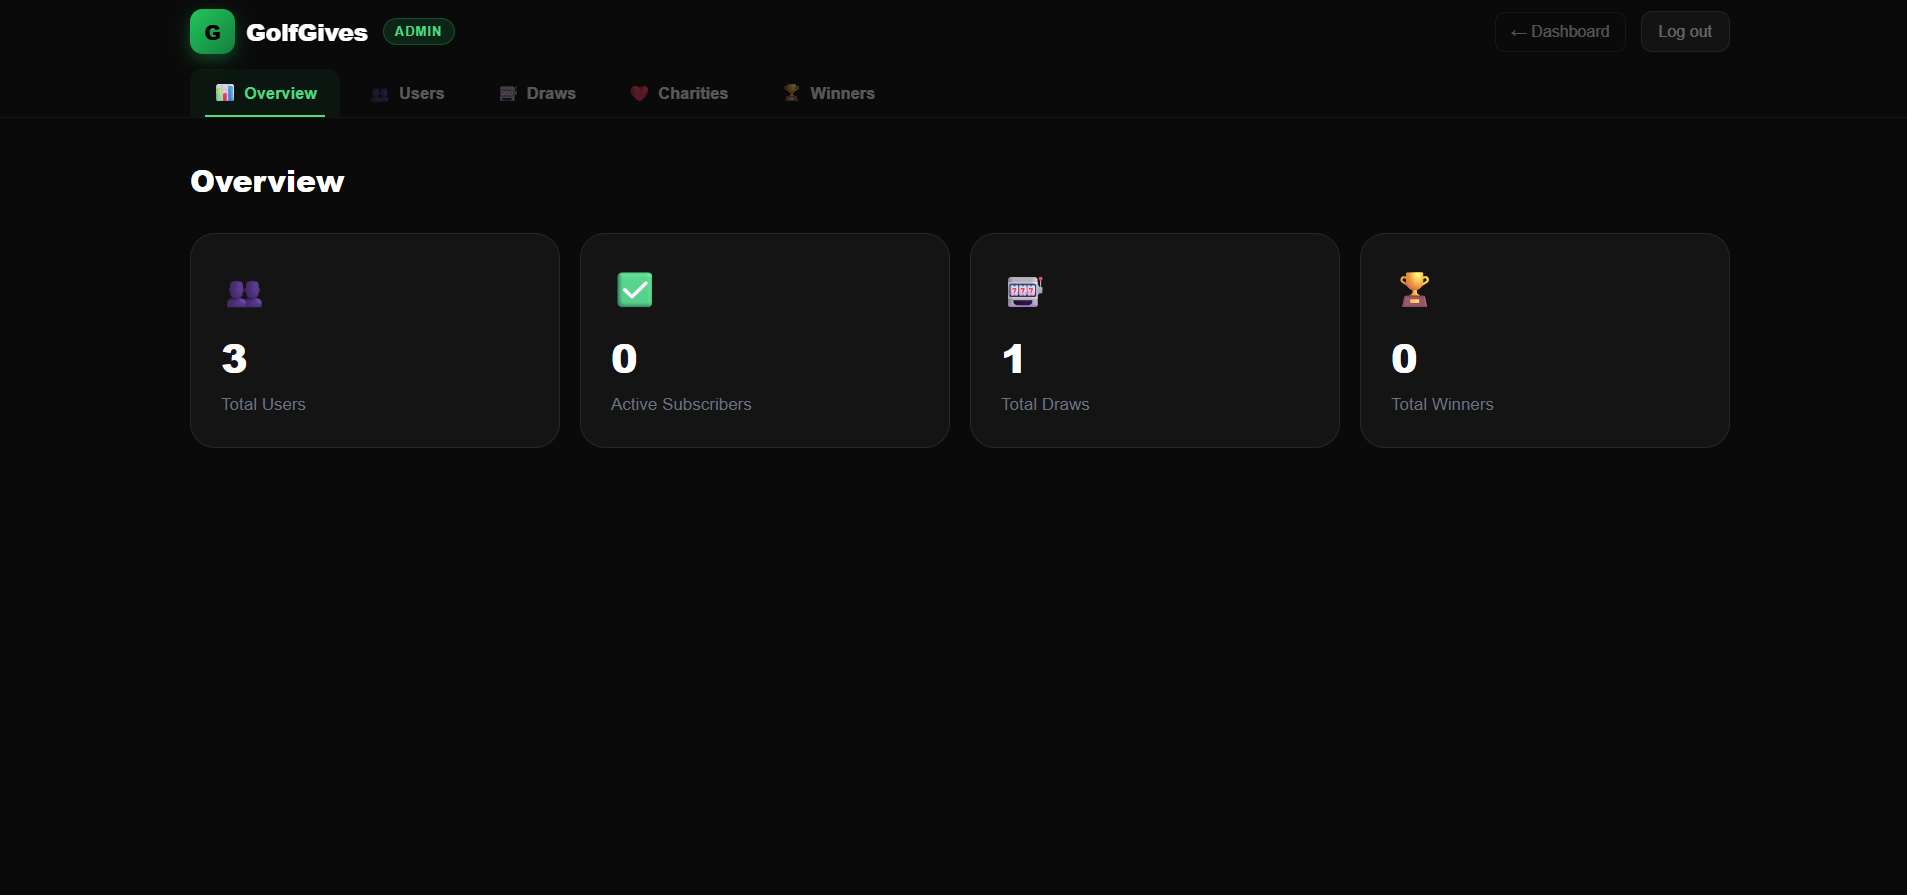
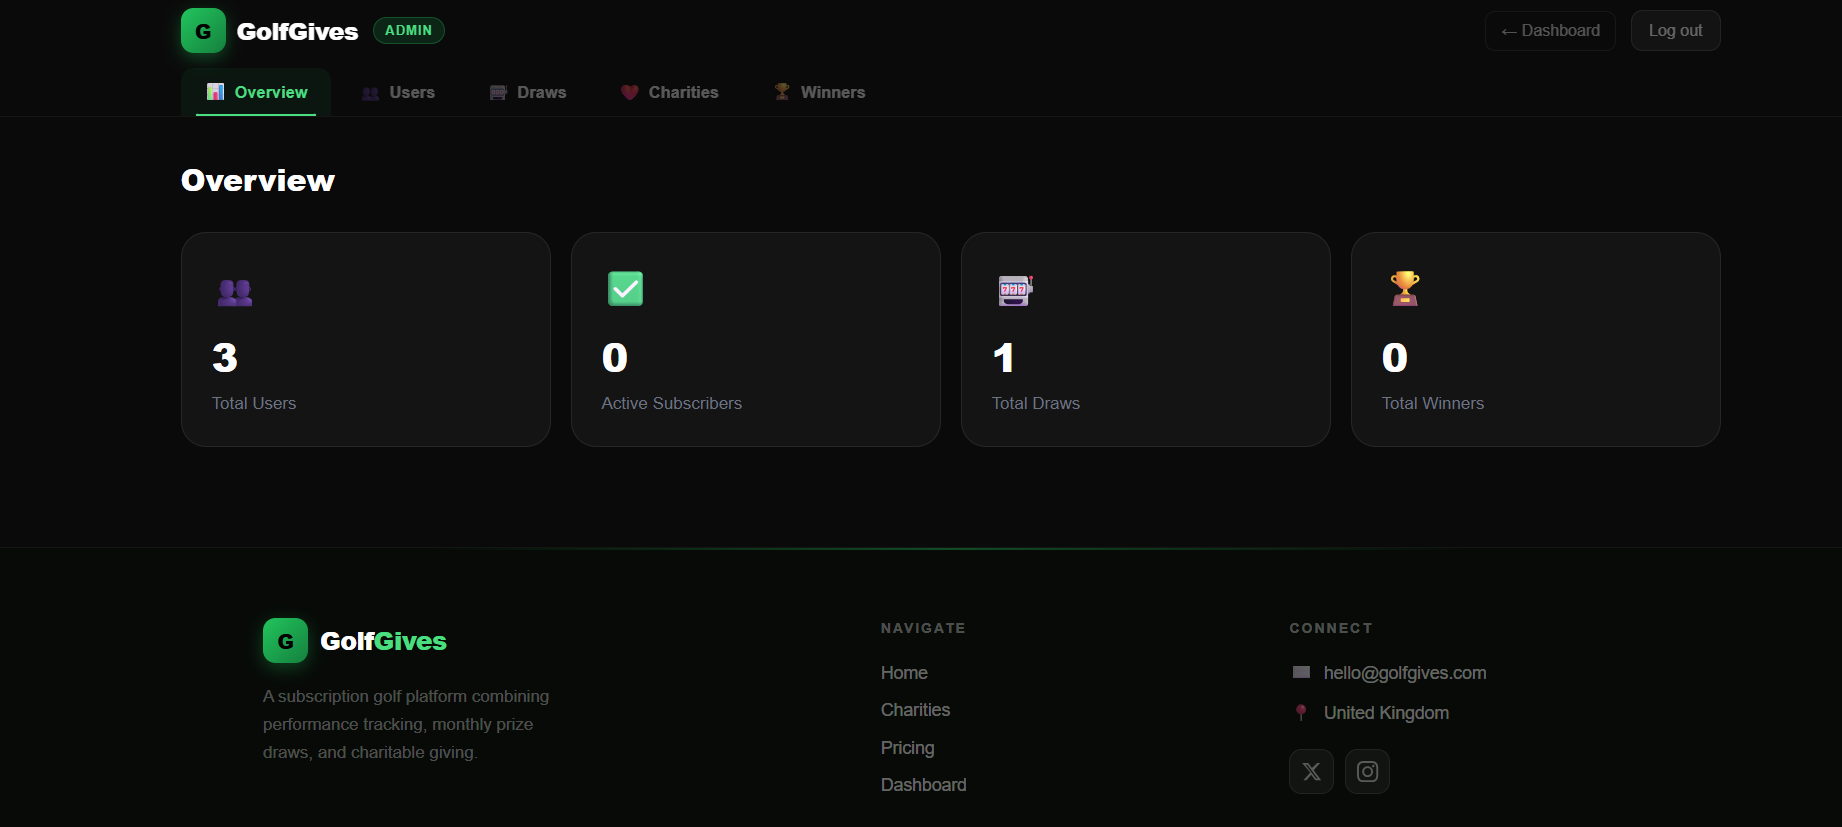
updated readme.md

diff --git a/app/admin/page.js b/app/admin/page.js
@@ -354,8 +354,8 @@ export default function AdminPage() {
             </div>
           </div>
         )}
-
       </div>
+      <Footer/>
     </div>
   )
 }

diff --git a/README.md b/README.md
@@ -249,9 +249,9 @@ Deployed on **Vercel** with the following setup:
 
 ---
 
-## 👩💻 Built By
+## 👩💻 Built By ❤
 
-**Built with ❤ by Tanya Vaish**
+**Tanya Vaish**
 
 ---
 
